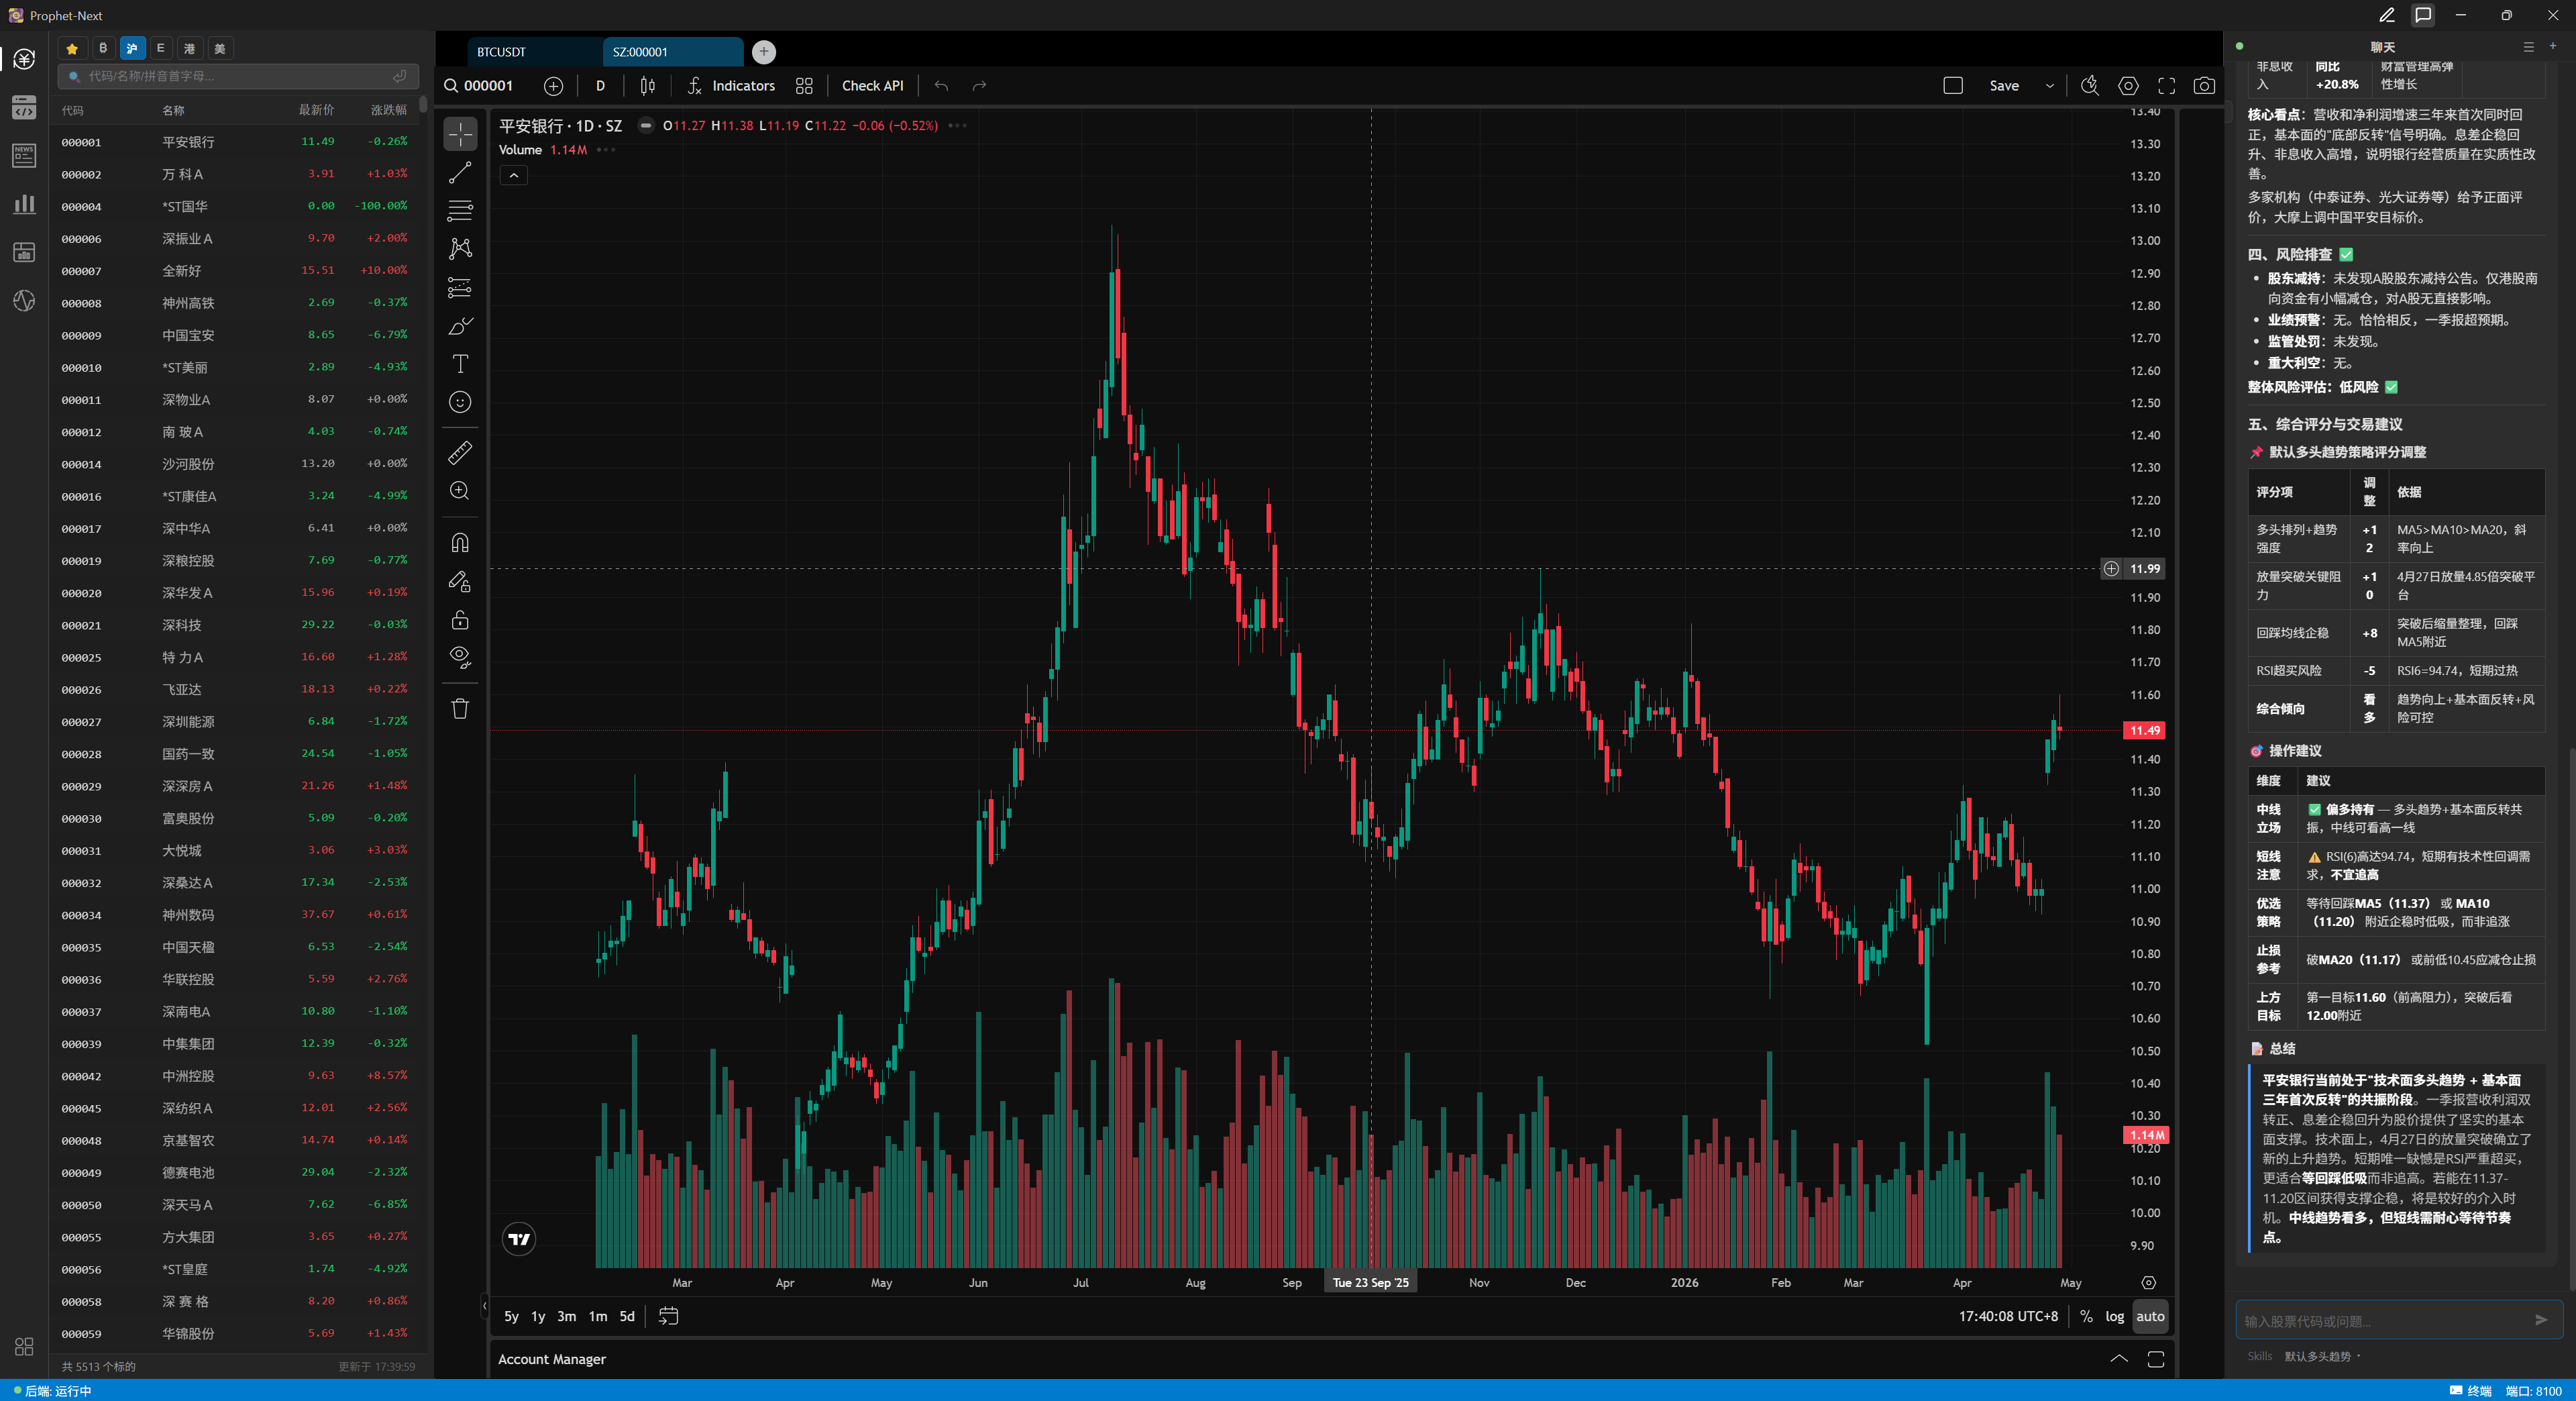
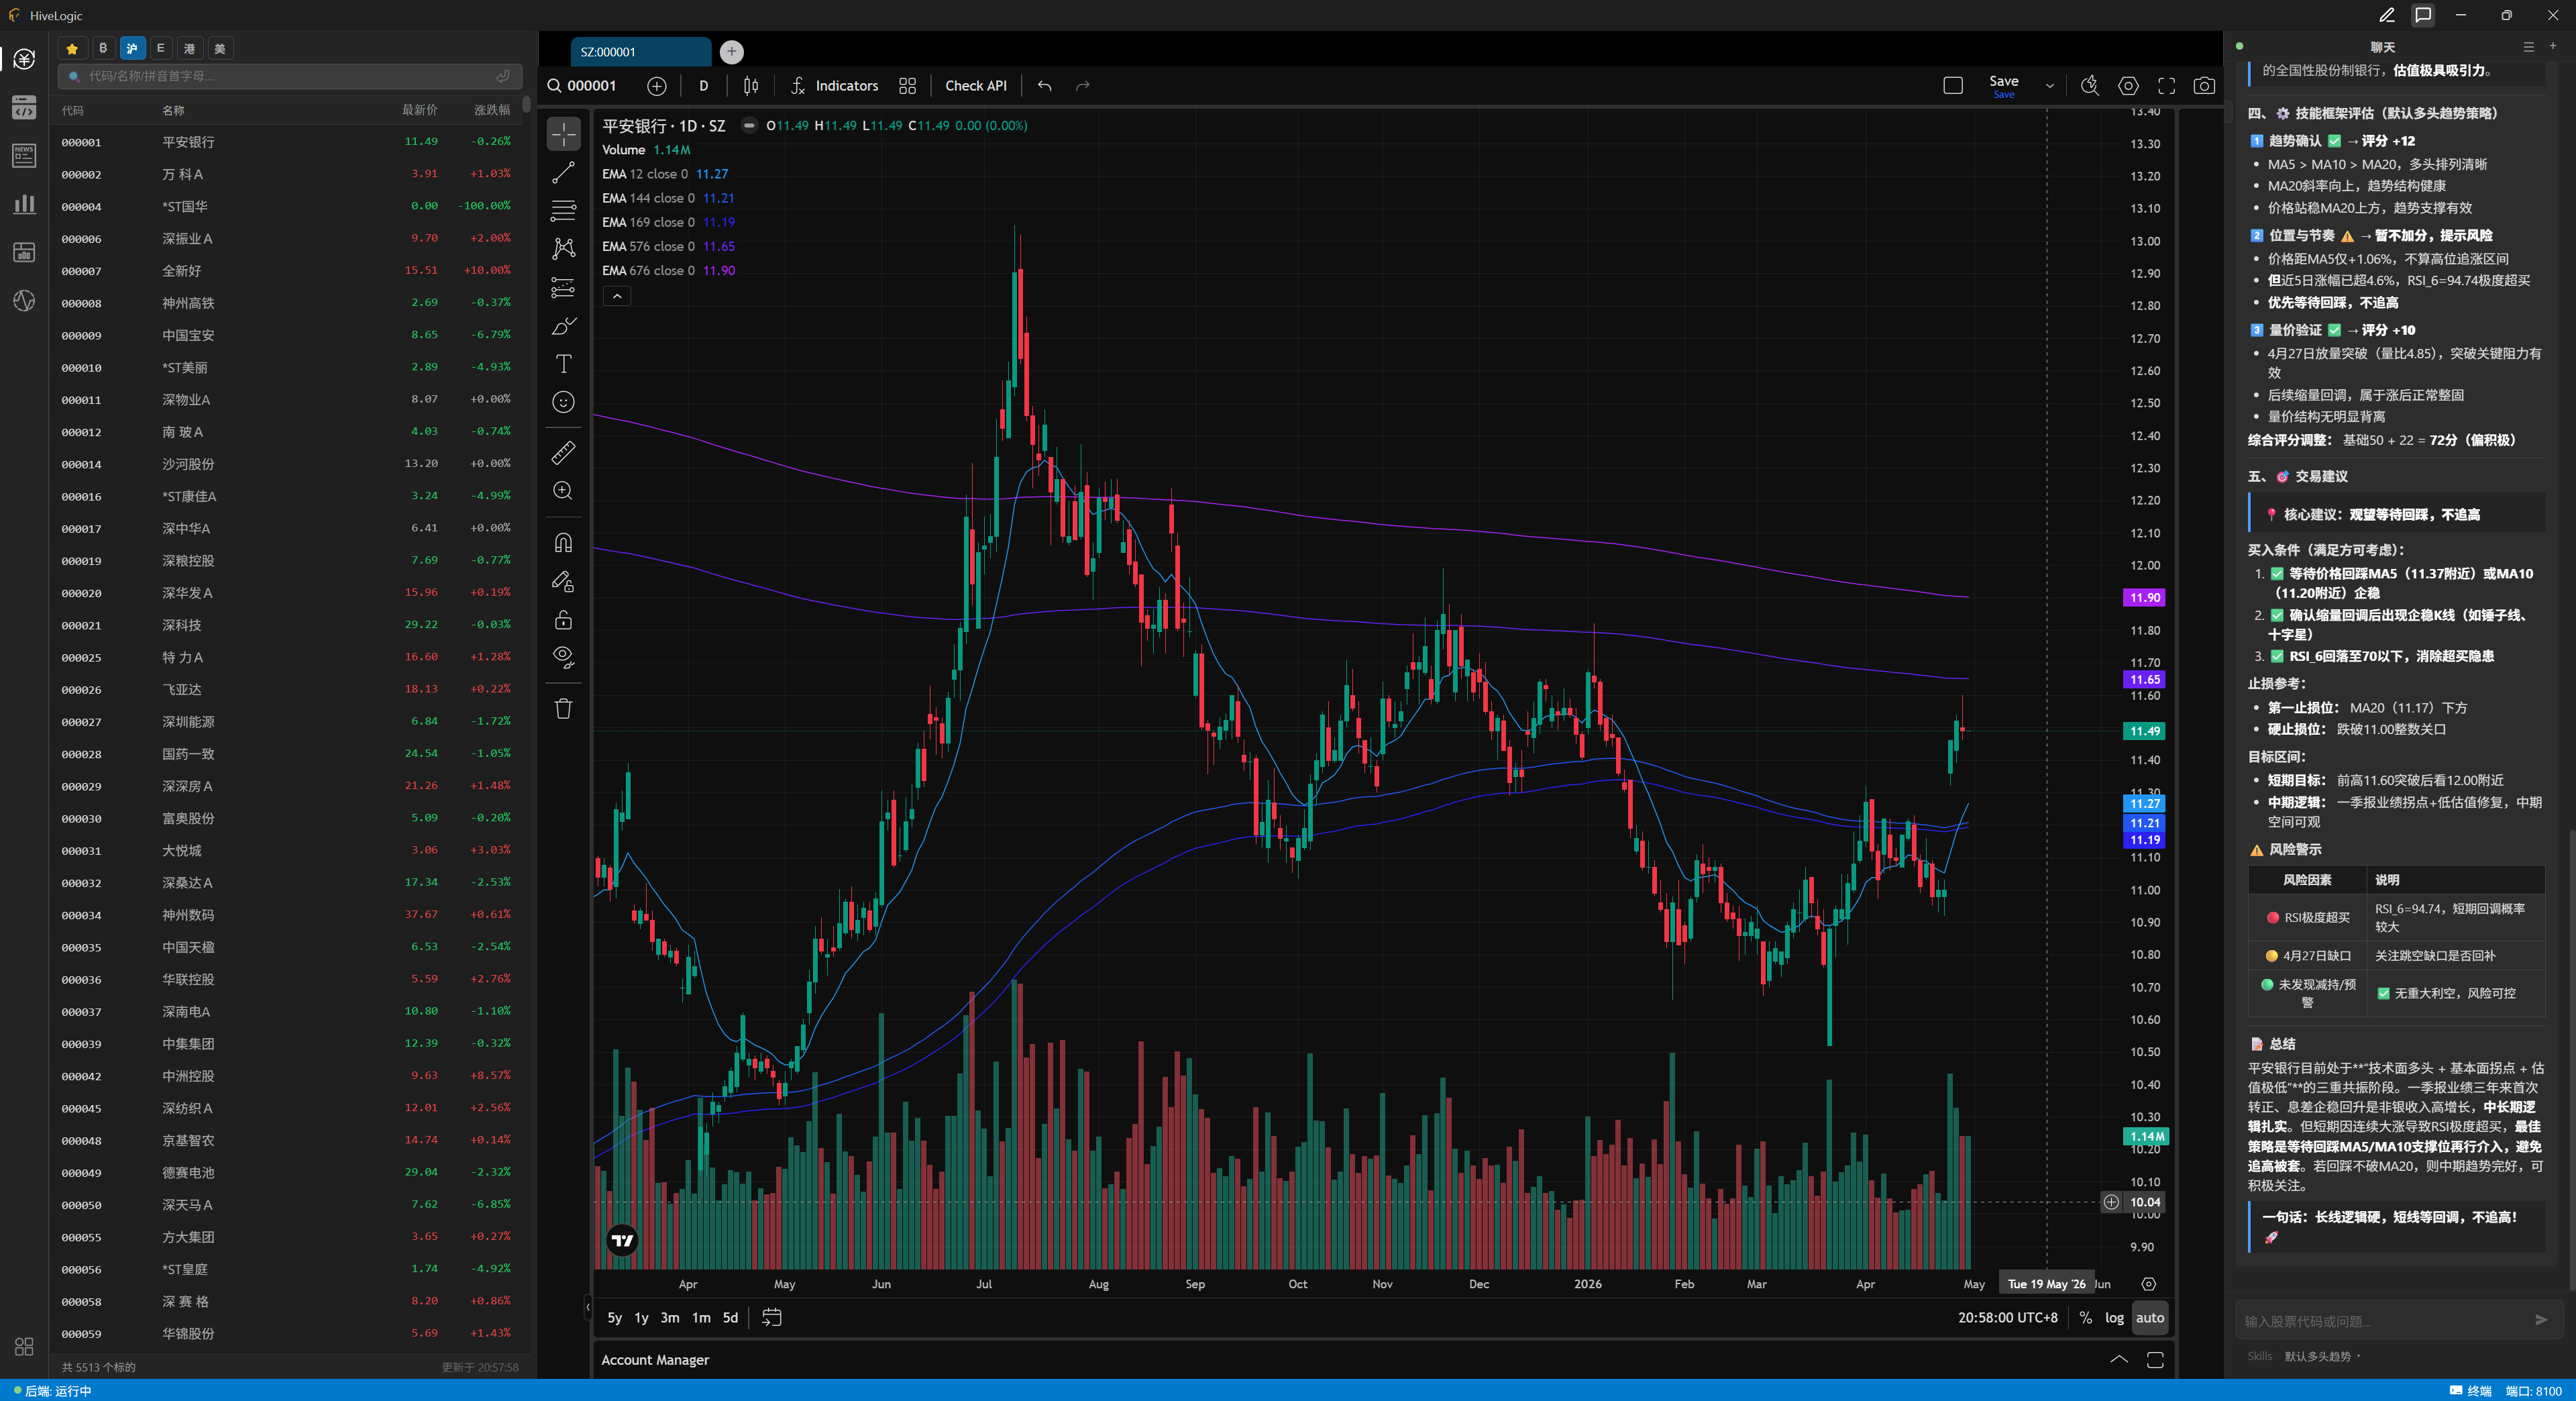
rename

diff --git a/src/main/index.js b/src/main/index.js
@@ -22,7 +22,7 @@ import {
 } from 'fs'
 import { spawn, spawnSync } from 'child_process'
 import { is, electronApp, optimizer } from '@electron-toolkit/utils'
-import icon from '../../resources/prophet_logo.png?asset'
+import icon from '../../resources/hivelogic_logo.png?asset'
 import terminalManager from './terminal-manager'
 
 // 子进程输出解码：优先 UTF-8，GBK 兜底（中文 Windows 上 uv.exe 输出 GBK）
@@ -83,9 +83,9 @@ function writeConfig(config) {
 
 function getDefaultWorkspacePath() {
   if (is.dev) {
-    return join(app.getAppPath(), 'ProphetWorkSpace')
+    return join(app.getAppPath(), 'HiveLogicWorkSpace')
   }
-  return join(dirname(app.getPath('exe')), 'ProphetWorkSpace')
+  return join(dirname(app.getPath('exe')), 'HiveLogicWorkSpace')
 }
 
 function getWorkspacePath() {
@@ -515,7 +515,7 @@ function ensureWorkspaceDir() {
       join(smaDir, 'sma.py'),
       [
         '# SMA 简单移动平均线指标',
-        '# Prophet-Next 示例指标',
+        '# HiveLogic 示例指标',
         '',
         '',
         'def calculate(close_prices: list[float], period: int = 20) -> list[float]:',
@@ -556,7 +556,7 @@ function ensureWorkspaceDir() {
       join(maCrossDir, 'strategy.py'),
       [
         '# 均线交叉策略',
-        '# Prophet-Next 示例策略',
+        '# HiveLogic 示例策略',
         '',
         'from indicator.sma_indicator import calculate as sma',
         '',
@@ -719,7 +719,7 @@ function createWindow() {
     width: 1600,
     height: 1000,
     show: false,
-    title: 'Prophet-Next',
+    title: 'HiveLogic',
     autoHideMenuBar: true,
     icon,
     webPreferences: {

diff --git a/src/renderer/index.html b/src/renderer/index.html
@@ -1687,8 +1687,8 @@
     <!-- 标题栏（全宽） -->
     <div class="titlebar">
       <div class="titlebar-brand">
-        <img src="/prophet_logo.png" alt="Prophet">
-        <span>Prophet-Next</span>
+        <img src="/hivelogic_logo.png" alt="HiveLogic">
+        <span>HiveLogic</span>
       </div>
       <div class="titlebar-actions">
         <button class="titlebar-btn" id="toggle-devtools-btn" title="DevTools" style="margin-right: 12px;">

diff --git a/src/renderer/src/App.vue b/src/renderer/src/App.vue
@@ -3,8 +3,8 @@ import Versions from '@renderer/components/Versions.vue'
 </script>
 
 <template>
-  <img alt="logo" class="logo" src="./assets/prophet_logo.png" />
-  <div class="creator">Prophet-Next</div>
+  <img alt="logo" class="logo" src="./assets/hivelogic_logo.png" />
+  <div class="creator">HiveLogic</div>
   <div class="text">
     Build With Electron-Vite and
     <span class="vue">Vue</span>

diff --git a/src/renderer/src/browser-mock.js b/src/renderer/src/browser-mock.js
@@ -399,7 +399,7 @@ window.electronAPI = {
   },
 
   // 工作区相关
-  getWorkspacePath: () => Promise.resolve('/mock/ProphetWorkSpace'),
+  getWorkspacePath: () => Promise.resolve('/mock/HiveLogicWorkSpace'),
   setWorkspacePath: () => {
     console.log('[browser-mock] setWorkspacePath called')
     return Promise.resolve(null)

diff --git a/doc/dsa_integration_plan.md b/doc/dsa_integration_plan.md
@@ -2,7 +2,7 @@
 
 ## 1. 背景
 
-[daily_stock_analysis](https://github.com/ZhuLinsen/daily_stock_analysis) 是一个基于 FastAPI + React 的股票分析 Web 应用。本文档规划将其中两个核心功能集成到 prophet-next（Electron + Vue 3 桌面应用）中：
+[daily_stock_analysis](https://github.com/ZhuLinsen/daily_stock_analysis) 是一个基于 FastAPI + React 的股票分析 Web 应用。本文档规划将其中两个核心功能集成到 HiveLogic（Electron + Vue 3 桌面应用）中：
 
 | 功能 | 来源页面 | 核心能力 |
 |------|---------|---------|
@@ -11,7 +11,7 @@
 
 ## 2. 两个项目的技术差异
 
-| 维度 | prophet-next | daily_stock_analysis |
+| 维度 | HiveLogic | daily_stock_analysis |
 |------|-------------|---------------------|
 | 前端框架 | Vue 3 + Element Plus | React 19 + Tailwind CSS |
 | 后端 | 无独立后端（Electron 主进程 + Python 脚本） | FastAPI + SQLite + SQLAlchemy |
@@ -26,7 +26,7 @@
 
 1. **后端复用价值极高**：分析流水线（pipeline）、Agent 系统、数据源适配、LLM 调用等核心逻辑全在 Python 后端，代码量大且逻辑复杂，不应重写
 2. **前端必须重写**：React → Vue 无法直接复用，但页面逻辑相对简单（一个搜索+报告页、一个聊天页）
-3. **prophet-next 已有 Python 进程管理能力**：当前项目已有运行 Python 脚本的机制
+3. **HiveLogic 已有 Python 进程管理能力**：当前项目已有运行 Python 脚本的机制
 
 ### 3.2 架构总览
 
@@ -57,9 +57,9 @@
 
 ### 3.3 与现有模式框架的对接
 
-prophet-next 已规划了四种模式，其中两种目前显示"正在开发中"，正好可以承载新功能：
+HiveLogic 已规划了四种模式，其中两种目前显示"正在开发中"，正好可以承载新功能：
 
-| prophet-next 模式 | 当前状态 | 集成功能 |
+| HiveLogic 模式 | 当前状态 | 集成功能 |
 |-------------------|---------|---------|
 | `trading_mode` | 已实现（K线图表） | 不变 |
 | `developing_mode` | 已实现（Monaco 编辑器） | 不变 |
@@ -256,7 +256,7 @@ src/renderer/
 3. 在 Electron 中用 `WebContentsView` 直接加载该地址
 
 **优点**：零前端开发，功能完整  
-**缺点**：UI 风格不统一、无法与 prophet-next 深度联动、两套 UI 体系
+**缺点**：UI 风格不统一、无法与 HiveLogic 深度联动、两套 UI 体系
 
 此方案仅建议用于早期验证后端可用性，不作为最终方案。
 

diff --git a/doc/dsa_migration_issues_and_plan.md b/doc/dsa_migration_issues_and_plan.md
@@ -1,7 +1,7 @@
 # DSA 迁移问题分析与开发计划
 
 > 生成日期: 2026-04-23
-> 基于对 daily_stock_analysis (DSA) 和 prophet-next 两个项目的对比分析
+> 基于对 daily_stock_analysis (DSA) 和 HiveLogic 两个项目的对比分析
 
 ---
 
@@ -36,7 +36,7 @@
 - 可折叠的详情面板
 - 复制按钮
 
-**Prophet-next 缺失**：
+**HiveLogic 缺失**：
 - ✗ 所有内容以纯文本/Markdown 表格呈现，无可视化组件
 - ✗ 表格样式不够清晰（缺乏背景色区分、边框样式）
 - ✗ 没有仪表盘、徽章、卡片等视觉元素
@@ -76,7 +76,7 @@
 
 ### 问题 4：端口冲突
 
-**现状**：prophet-next 后端默认使用端口 8000，与 DSA 独立运行时的默认端口相同。
+**现状**：HiveLogic 后端默认使用端口 8000，与 DSA 独立运行时的默认端口相同。
 
 **影响**：无法同时运行两个程序进行对比调试。
 
@@ -317,7 +317,7 @@
 
 ## 五、已确认无需迁移的部分
 
-以下部分经对比确认两端一致或 prophet-next 已正确集成：
+以下部分经对比确认两端一致或 HiveLogic 已正确集成：
 
 - ✅ **后端模板**：`report_markdown.j2` 和 `_macros.j2` 完全一致
 - ✅ **API 路由结构**：v1 API 路由表一致

diff --git a/doc/charting_library_research.md b/doc/charting_library_research.md
@@ -42,9 +42,9 @@ TradingView 提供三个层级的图表产品：
 | Electron 桌面应用 | 🔴 高 | 桌面应用通常被视为"非公开环境"，极可能不满足免费使用条件 |
 | IP 追溯风险 | 🟡 中 | TradingView 是大型公司(40,000+企业客户)，有法律资源追究侵权 |
 
-### 1.4 对 Prophet-Next 项目的影响
+### 1.4 对 HiveLogic 项目的影响
 
-Prophet-Next 是一个 **Electron 桌面应用**，这意味着：
+HiveLogic 是一个 **Electron 桌面应用**，这意味着：
 - 不属于"公开网页"，**很可能不满足免费使用条件**
 - 如果发布为商业产品或需去除品牌标识，**必须获取商业许可**
 - 如果代码仓库是 public 的，包含 charting_library 文件会 **直接违反条款**
@@ -212,7 +212,7 @@ Prophet-Next 是一个 **Electron 桌面应用**，这意味着：
 
 ## 四、推荐方案
 
-### 对于 Prophet-Next (Electron 桌面应用)
+### 对于 HiveLogic (Electron 桌面应用)
 
 **首选推荐: KLineChart** ⭐
 

diff --git a/README.md b/README.md
@@ -1,6 +1,6 @@
-<div align=center><img width="100" height="100" src="resources/prophet_logo.png"/></div>
+<div align=center><img width="100" height="100" src="resources/hivelogic_logo.png"/></div>
 </br>
-<div align=center>Prophet-Next</div>
+<div align=center>HiveLogic</div>
 </br>
 </br>
 </br>

diff --git a/doc/console_windows_develop_plan.md b/doc/console_windows_develop_plan.md
@@ -672,7 +672,7 @@ onTerminalData: (callback) => ipcRenderer.on('terminal-data', (e, payload) => ca
    - `VIRTUAL_ENV` 指向 `backend/.venv`
    - `PATH` 前置 `backend/.venv/bin` (Unix) 或 `backend/.venv/Scripts` (Windows)
    - 等效于自动激活 uv 创建的虚拟环境
-5. 终端启动后自动显示提示: `(prophet-backend) $ ` 表示已在虚拟环境中
+5. 终端启动后自动显示提示: `(hivelogic-backend) $ ` 表示已在虚拟环境中
 6. 支持 Ctrl+C 中断、Ctrl+D 关闭
 
 **UV 环境激活策略**: